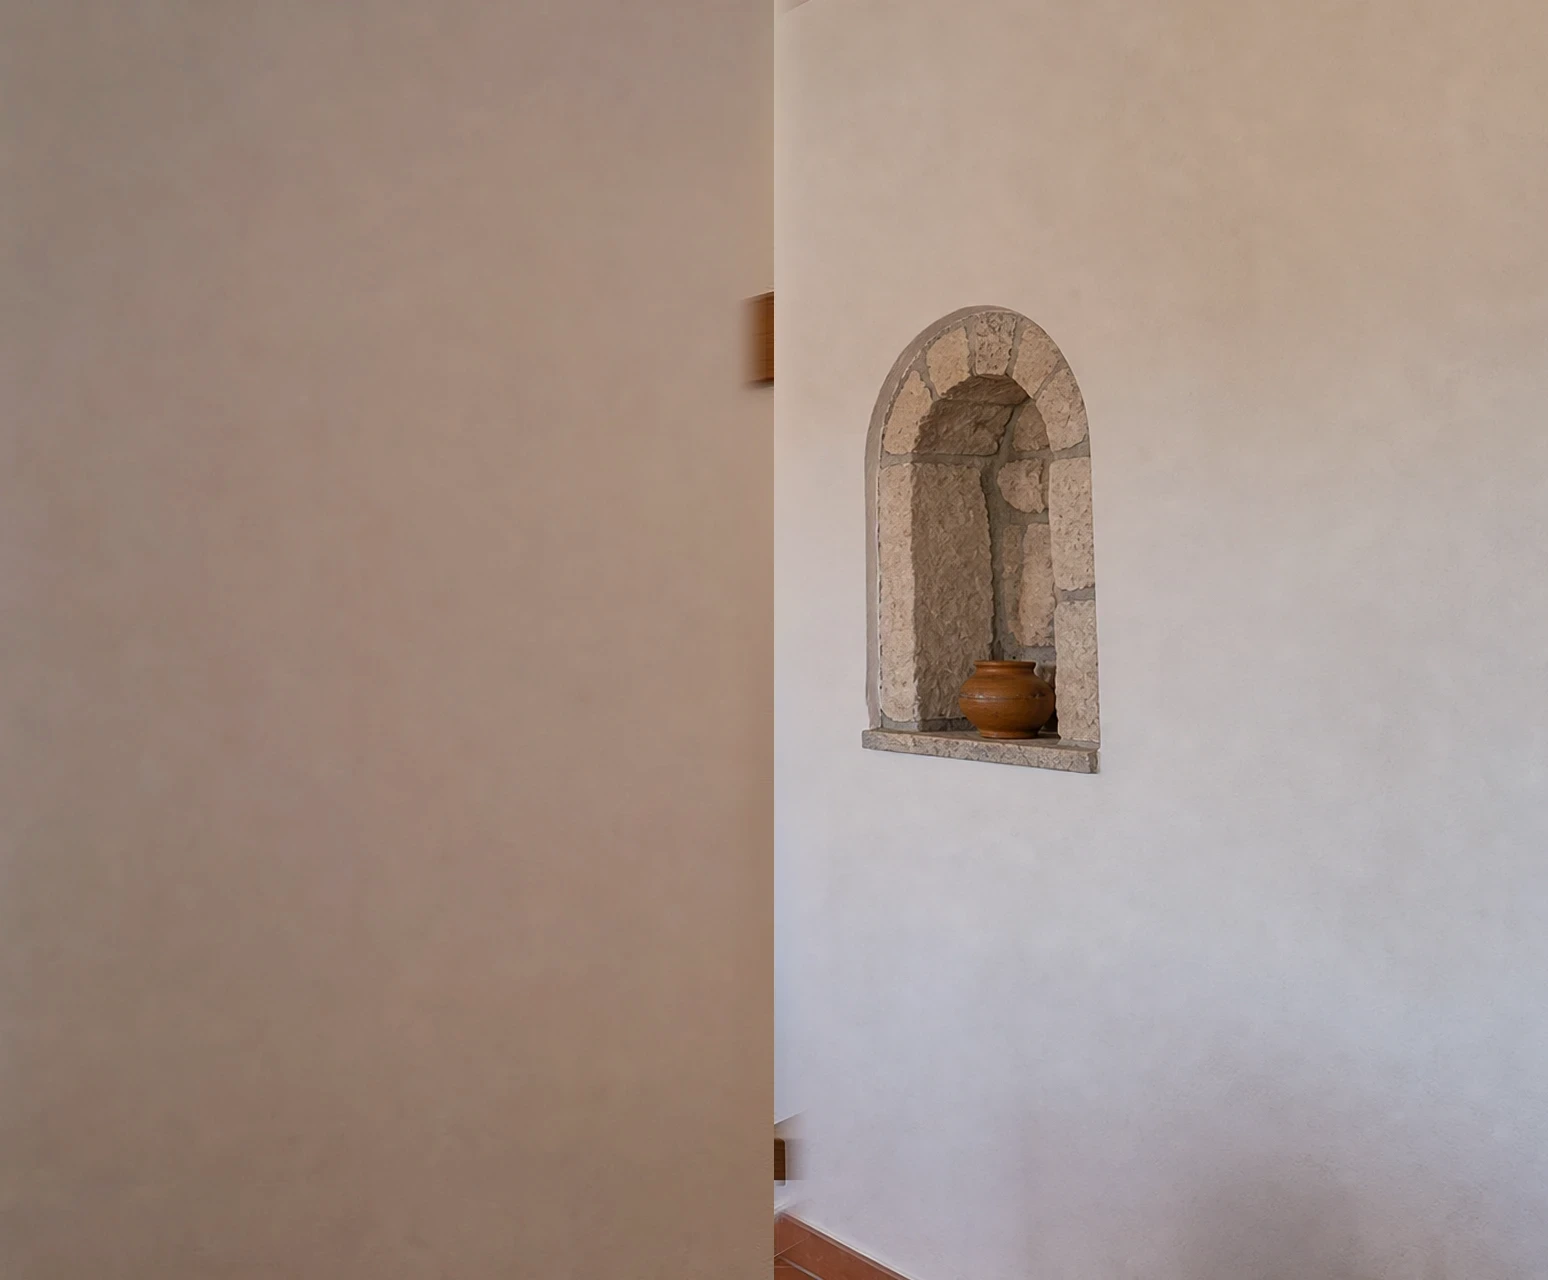
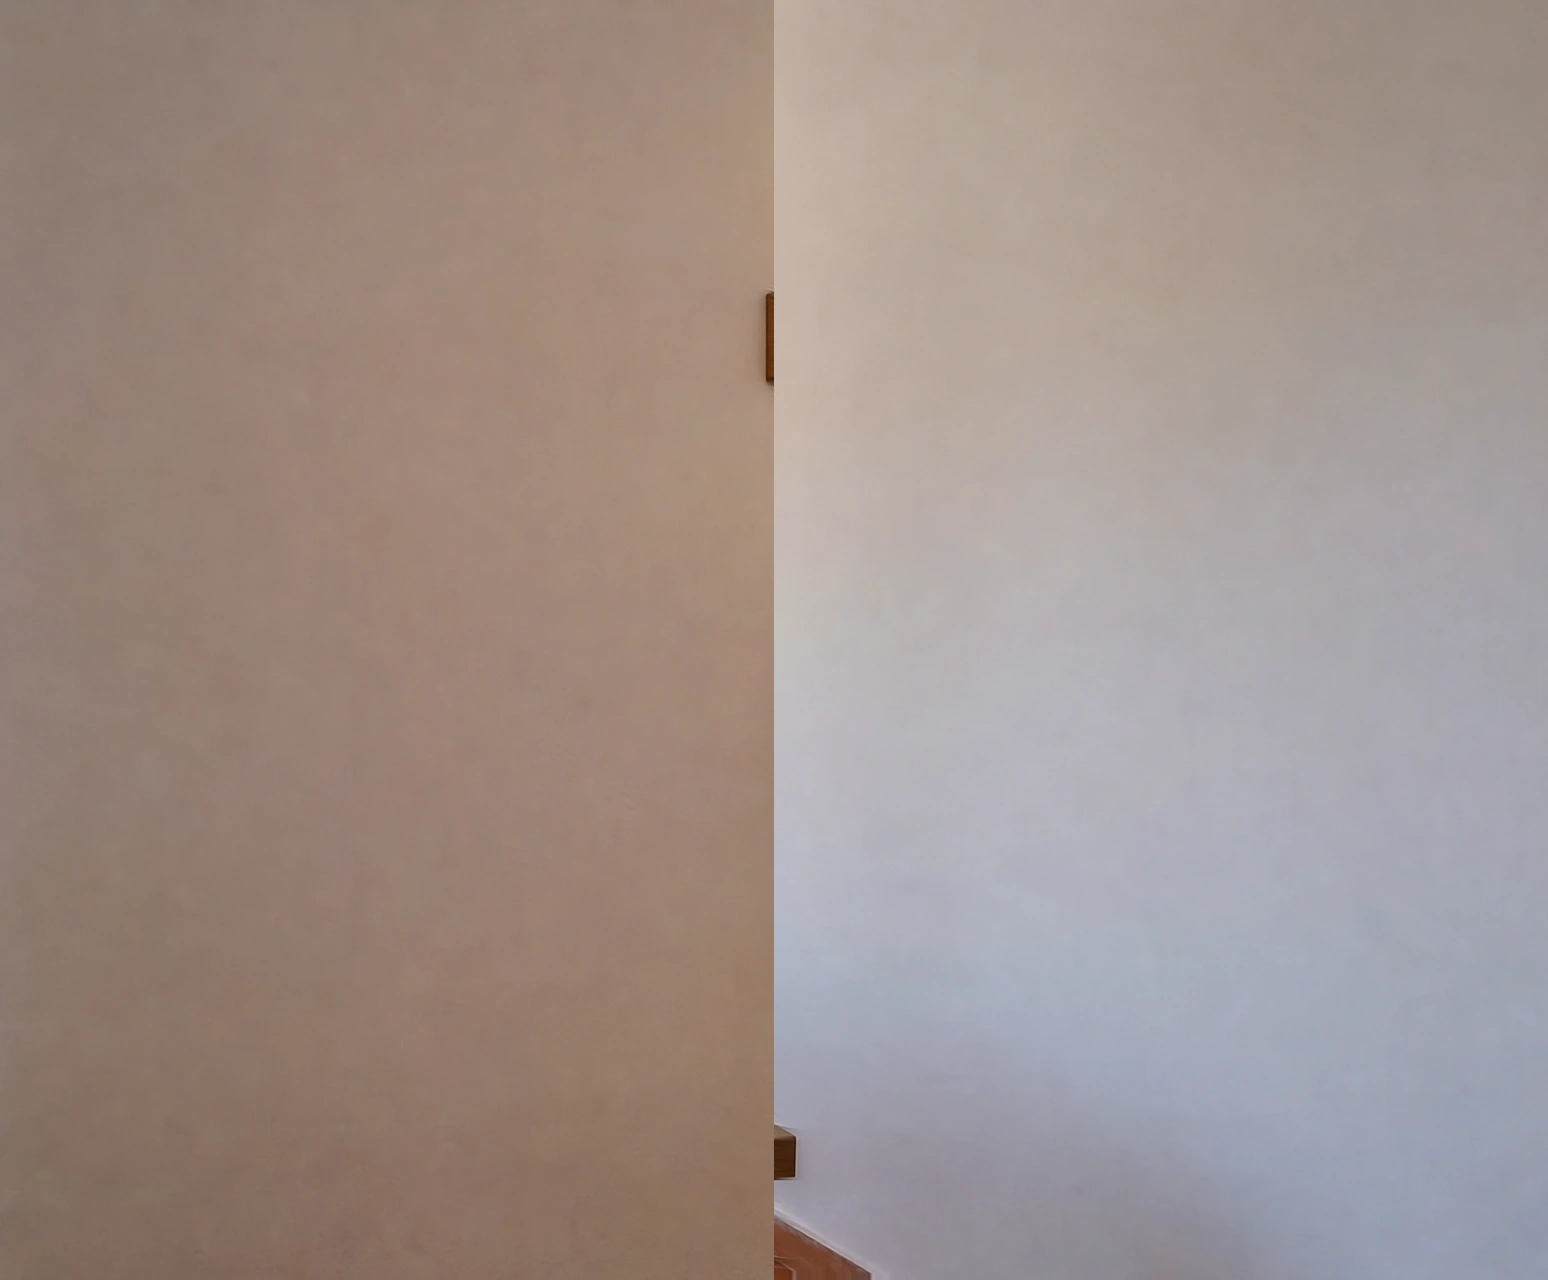
Keep Warroom panoramic architecture consistent across years

diff --git a/src/ui/map/components/warroom/warroom-scene-plate.css b/src/ui/map/components/warroom/warroom-scene-plate.css
@@ -3,7 +3,8 @@
   position: absolute;
   inset-block: 0;
   /* The atlas contains two 774 px wings for the 2292 px reference center. */
-  width: calc(max(calc((var(--interface-viewport-width, 100vw) - 100%) / 2), calc(100% * 774 / 2292)) + 1px);
+  --wing-overlap: 1px;
+  width: calc(max(calc((var(--interface-viewport-width, 100vw) - 100%) / 2), calc(100% * 774 / 2292)) + var(--wing-overlap));
   background-size: 200% 100%;
   background-repeat: no-repeat;
   pointer-events: none;
@@ -16,10 +17,20 @@
 }
 
 .warroom-scene-wing--right {
-  left: calc(100% - 1px);
+  left: calc(100% - var(--wing-overlap));
   background-position: right center;
 }
 
 @media (min-aspect-ratio: 43/24) {
   .warroom-scene-wing { display: block; }
+
+  /* The RBiH source has a bright edge across the clipped switch plate.
+     Fade just that decorative edge over its prepared seven-pixel overlap. */
+  [data-soften-right-join="true"] > .warroom-scene-wing--right {
+    --wing-overlap: 0.3%;
+  }
+
+  [data-soften-right-join="true"] > img {
+    mask-image: linear-gradient(to right, #000 99.7%, transparent 99.94%);
+  }
 }

diff --git a/src/ui/map/components/warroom/WarroomScenePlate.tsx b/src/ui/map/components/warroom/WarroomScenePlate.tsx
@@ -8,6 +8,7 @@ export const WARROOM_SCENE_ASPECT = WARROOM_SCENE_WIDTH / WARROOM_SCENE_HEIGHT;
 export interface WarroomScenePlateProps {
   src: string;
   wideSrc?: string;
+  softenRightJoin?: boolean;
   state?: 'current' | 'incoming';
   transformOrigin?: string;
   className?: string;
@@ -21,6 +22,7 @@ export interface WarroomScenePlateProps {
 export function WarroomScenePlate({
   src,
   wideSrc,
+  softenRightJoin,
   state = 'current',
   transformOrigin,
   className,
@@ -35,6 +37,7 @@ export function WarroomScenePlate({
       className={className}
       data-testid="warroom-scene-plate"
       data-scene-state={state}
+      data-soften-right-join={wideSrc && softenRightJoin ? true : undefined}
       style={{
         position: 'absolute',
         left: '50%',

diff --git a/tests/ui/warroom_scene_continuity.test.ts b/tests/ui/warroom_scene_continuity.test.ts
@@ -84,10 +84,11 @@ describe('Warroom scene continuity', () => {
   it('keeps both panoramic extensions and the interactive children in the original coordinate frame', () => {
     render(createElement(
       WarroomScenePlate,
-      { src: '/room.webp', wideSrc: '/wings.webp' },
+      { src: '/room.webp', wideSrc: '/wings.webp', softenRightJoin: true },
       createElement('button', { type: 'button' }, 'Hotspot'),
     ));
     const plate = screen.getByTestId('warroom-scene-plate');
+    expect(plate.getAttribute('data-soften-right-join')).toBe('true');
     const wings = screen.getAllByTestId('warroom-scene-wing');
     expect(wings).toHaveLength(2);
     for (const wing of wings) {

diff --git a/src/ui/map/components/warroom/WarroomShellLayer.tsx b/src/ui/map/components/warroom/WarroomShellLayer.tsx
@@ -1120,7 +1120,10 @@ export function WarroomShellLayer({ onNavigate, onOpenSidePicker, statusDock }: 
         overflow: 'hidden',
       }}
     >
-      <WarroomScenePlate src={scenePlateUrl} wideSrc={warroomWideSceneUrl(playerFaction, year)}>
+      <WarroomScenePlate src={scenePlateUrl}
+        wideSrc={warroomWideSceneUrl(playerFaction, year)}
+        softenRightJoin={playerFaction === 'RBiH'}
+      >
         <WarroomToolbar onNavigate={onNavigate} />
         {statusDock}
         {deskMapRegion ? (

diff --git a/docs/PROJECT_LEDGER_KNOWLEDGE.md b/docs/PROJECT_LEDGER_KNOWLEDGE.md
@@ -1434,7 +1434,7 @@ An authored calendar window may make a historical notification eligible, but it 
 
 **Tactical-map performance packets should start by cutting duplicate render work before chasing bigger rewrites (2026-04-15):** `MapContainer` owns multiple deck-layer update paths and a pulse RAF loop, so the first honest performance seam is render churn, not speculative algorithm surgery. The safe pattern is: route every Deck overlay update through one guard that compares the actual render inputs before calling `deckOverlay.setProps(...)`, and gate animation loops so they sleep when no staged arrows, ghost paths, or visible recent battle markers exist. This is a real reduction in needless renderer work, but it is **not** a benchmark artifact and should never be reported as a measured FPS win unless a before/after capture exists. Applied in `[2026-04-15] perf(ui): reduce tactical map render churn`.
 
-**Preserve the Warroom center when extending its field of view (2026-11-08).** Register generated side art to the existing image, keep the center asset authoritative, and position the decorative panels in the same logical viewport as the live scene. The map, date and clickable polygons stay in their authored coordinate space. Use a slight panel overlap behind the plate to avoid a fractional-pixel seam. See the 2026-11-08 Warroom panorama ledger entry.
+**Preserve the Warroom center when extending its field of view (2026-11-08).** Register generated side art to the existing image, keep the center asset authoritative, and position the decorative panels in the same logical viewport as the live scene. The map, date and clickable polygons stay in their authored coordinate space. Use a slight panel overlap behind the plate to avoid a fractional-pixel seam. Give all years of a faction one side-art master, and vary the grading. Continue trim along its perspective through the join. Verify visually at native scale, since coordinate assertions cannot catch architecture drifting between years. See the 2026-11-08 Warroom panorama and continuity ledger entries.
 
 **Warroom shell hotspots must be real buttons at the React owner layer, not hover-only rectangles (2026-04-15):** `src/ui/map/components/warroom/WarroomShellLayer.tsx` is the canonical accessibility seam for the Warroom overlay. If a hotspot is meant to navigate, it must expose native button semantics, a stable accessible label, and keyboard activation (`Enter` / `Space`) at that owner layer. `title` text on an absolutely positioned `div` is not enough: it leaves the shell mouse-only and unnamed for assistive tech. The safe pattern is to centralize the label (`getWarroomRegionLabel`) from tooltip-or-id, keep the region mapping (`regionToShellHandoff`) separate from accessibility naming, and announce unavailable shell state through a polite `role="status"` region. Applied in `[2026-04-15] feat(ui): make Warroom hotspots keyboard-accessible`.
 

diff --git a/docs/PROJECT_LEDGER.md b/docs/PROJECT_LEDGER.md
@@ -14118,3 +14118,11 @@ All 15 faction/year Warroom scenes have decorative side atlases derived from 384
 
 - Verification: all 15 assets resolve and bundle; all 12 live-selectable rooms pass relative hotspot, map, and date-board registration at 1280 × 720 and 3426 × 1186. The 150% interface-scale and seam follow-up also passed. Focused tests 111/111, typecheck, production map build, chunk cycle check, and board-luminance check pass.
 - Presentation only. No simulation, state, save, scenario, or calibration effect. Local evidence is under F:/AWWV-worktrees/.warroom-ultrawide.
+
+## 2026-11-08 — Fix Warroom panorama architectural continuity (UI, ART)
+
+Rebuilt all 15 extensions using one fixed side-art master per faction. RBiH uses the 1992 plaster-and-rail master, RS the 1991 wood-paneled master, and HRHB the 1992 plaster-and-tile master. Lighting is matched per year to the original center and the original year-specific props remain visible. The transitions follow the neighboring perspective. RBiH has a small ultrawide-only edge overlap to finish its cropped switch plate.
+
+- Compared five-year sequences and inspected 30 joins. The normal and ultrawide browser matrix verified 12 live rooms, each with ten registered targets and overlays, and direct scene previews covered all three 1991 entries.
+- Focused Warroom tests 111/111, followed by 23/23 after the RBiH join change. Typecheck, production map build, all 15 packaged map atlases, chunk cycle check, and board-luminance check passed. No simulation, state, save, scenario, or calibration changes.
+- Evidence is under F:/AWWV-worktrees/.warroom-ultrawide/continuity-fix. No native Electron package or hosted CI run in this slice.

diff --git a/docs/20_engineering/MAP_UI_MASTER.md b/docs/20_engineering/MAP_UI_MASTER.md
@@ -18,7 +18,7 @@
 
 ---
 
-The live Warroom extends the aspect-fit plate with a two-panel panoramic WebP for each faction and year. These decorative panels share the plate height and use logical viewport dimensions for interface scaling. The existing room image owns the clickable regions, map, date board, and toolbar coordinate frame. Opening previews still use the standard scene plate.
+The live Warroom extends the aspect-fit plate with a two-panel panoramic WebP for each faction and year. Each faction uses one fixed side-art master across its five years. Annual grading matches the original center lighting and dressing. Review the ceiling, wall, and floor joins at native scale, and compare permanent openings across the five-year sequence. These decorative panels share the plate height and use logical viewport dimensions for interface scaling. The existing room image owns the clickable regions, map, date board, and toolbar coordinate frame. Opening previews still use the standard scene plate.
 
 ## 1. Directory Layout
 
